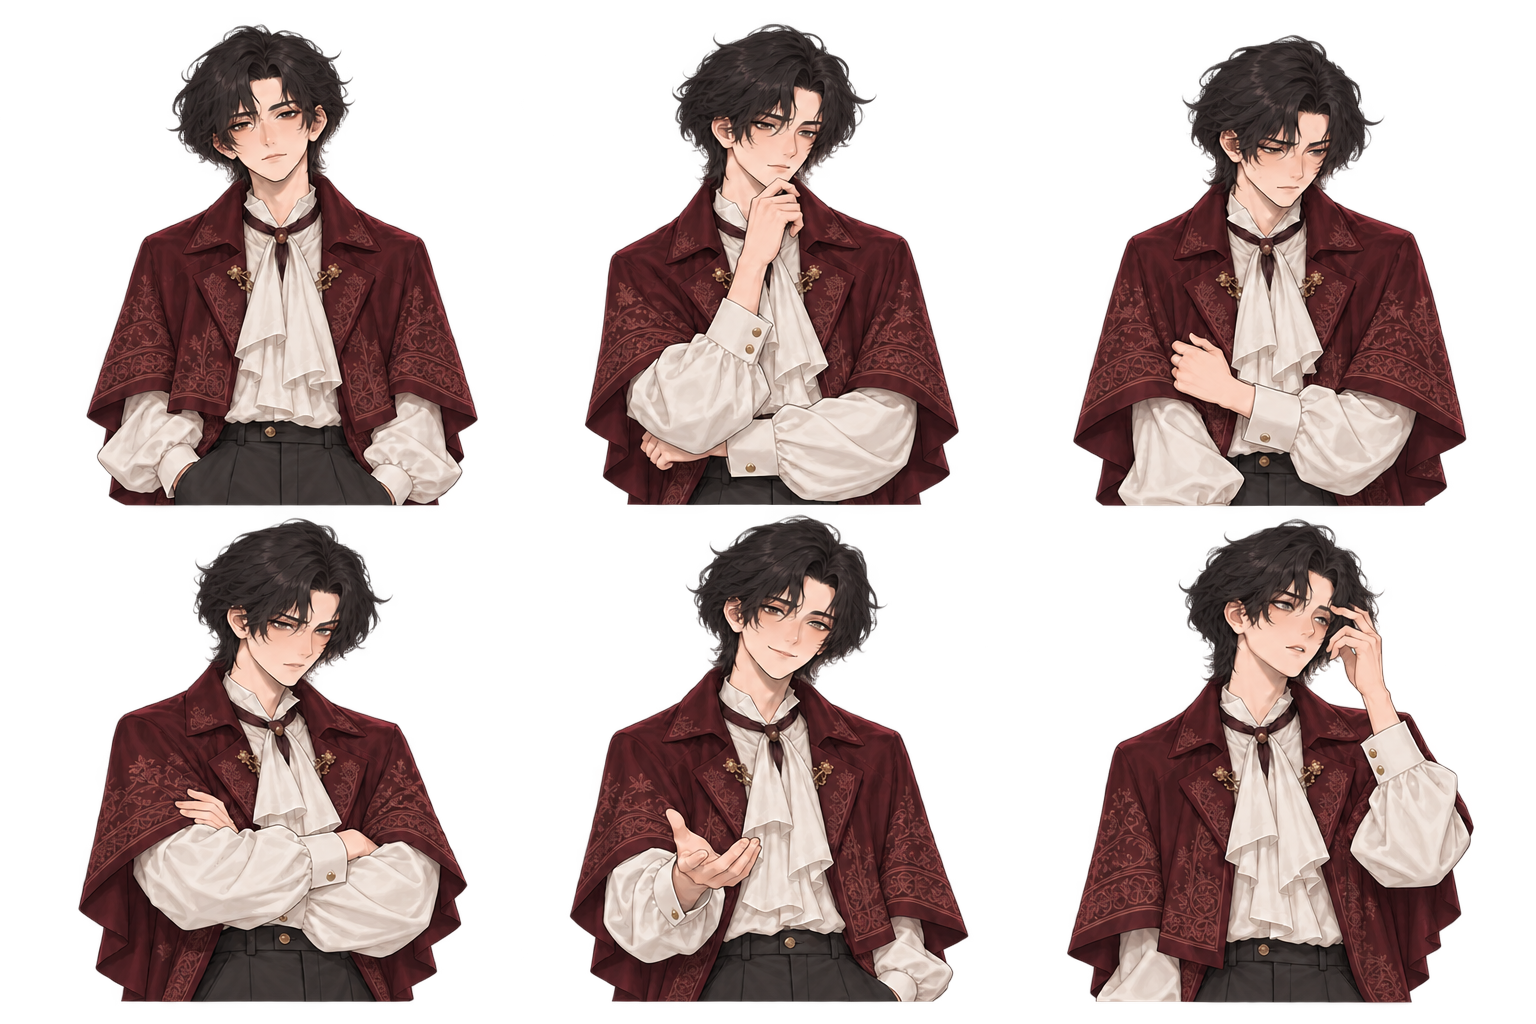
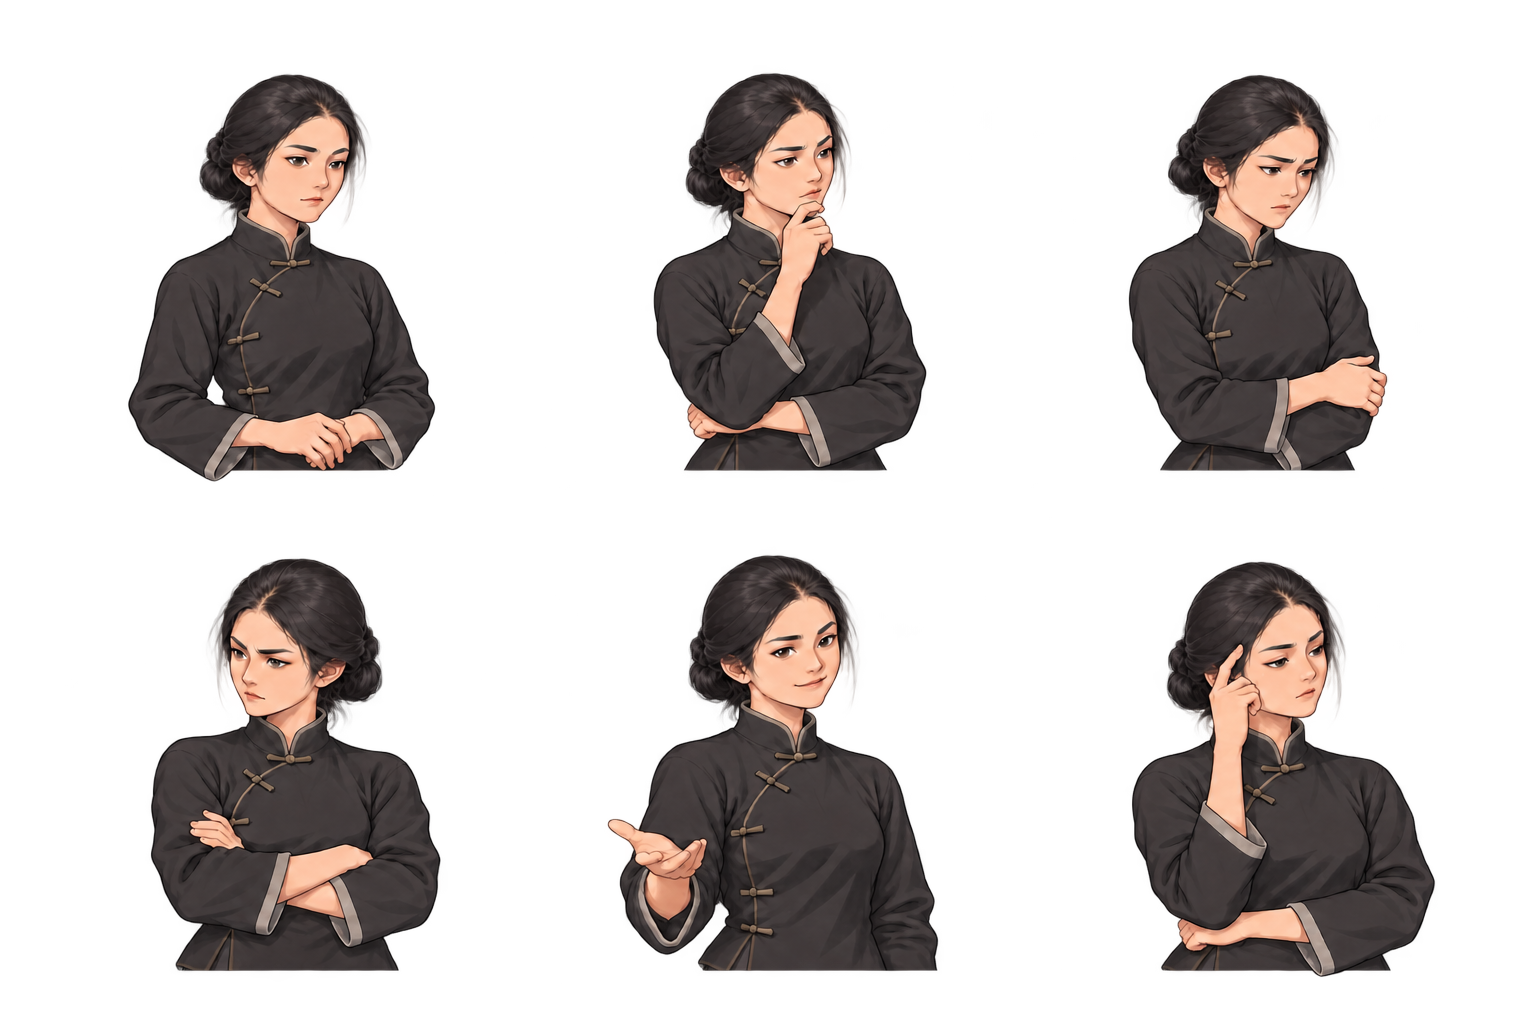
fix(art): 苏泠对白立绘按人设重生成（原图误为穿诗人服装的男性），更正提示词与六格裁切

diff --git a/artifacts/ch1-portrait/verification-report.md b/artifacts/ch1-portrait/verification-report.md
@@ -1,0 +1,30 @@
+# 苏泠对白立绘独立资产检查
+
+结论：本轮定向资产 QA 通过。验收 Agent 使用全新上下文，读取三份 AGENTS.md，未读取设计规范；人物外观依据本轮明确提供的用户要求判断。未执行完整二级 UI 专项、一级全程记录或三级盲玩，不据此评价机制、人物行为合理性或游玩体验。
+
+交付改动：`godot_csharp/AssetsSource/Internal/Characters/DialogueCast/musician-sheet.prompt.txt:1` 与 `musician-sheet-layout.prompt.txt:1` 修正身份和生成要求；同目录 `musician-sheet.png`、`musician-sheet-layout-source.png` 替换为新女性图；`godot_csharp/ShareAsset/Internal/Characters/DialogueCast/musician-sheet.png` 同步运行纹理；同目录 `musician_{calm,thoughtful,worried,angry,warm,hooked}.tres:7` 的 region 与第 8 行 margin 按新图重新生成。原有 `.import` 配置保持一致，未手工修改。
+
+已实际查看新源图、女性布局中间图、厨师/工程师参考图，以及以下两张 Godot 实渲染 PNG：
+
+- [六表情运行时纹理](verification/musician-runtime-contact.png)：正式六个 AtlasTexture 以 332×417 画布显示。
+- [正式对白头像控件](verification/musician-dialogue-widget-contact.png)：复制 ChapterDialogue.tscn 的 PortraitFrame/CharacterPortrait，沿用正式主题、210×280 框、204×274 最小纹理区域与 stretch_mode=5。
+
+六格为同一位年轻成年女性，低位黑发髻、炭黑立领盘扣上衣、纤瘦体态与空手保持一致；没有蓝/海军蓝服装、披风或领巾。表情顺序与动作分别为平静松弛、指抵下巴思考、紧张手横胸前、克制怒意抱臂、柔和微笑摊手、失神侧看并停手于太阳穴。成人动漫画风与两份参考兼容。截图中发髻、肘部与手部完整，透明背景正确，无矩形底色和相邻格内容混入。
+
[1 lines of base64/hex data omitted]
+
+按生产管线 `ALPHA_BOUND_THRESHOLD=16` 测量，六个 region 完整包住有效轮廓，每格四边有效 alpha 像素数均为零。有效轮廓距格边最小为 calm 下侧 30px，其余格的最小留白均至少 41px。calm 下侧未达到提示词写明的 35px 留白，属于小幅规格差异；实际查看未发现头发、肘部或手部裁切、触边。37,845 个 alpha 介于 1–15 的微弱像素不作为有效轮廓；透明像素内残留 RGB 不作为不透明背景判据。完整测量见 [portrait-metrics.json](verification/portrait-metrics.json)。
+
+| 检查 | 本轮结果 |
+| --- | --- |
+| `python godot_csharp/tools/compile_story.py --check` | 通过，7 个生成物与源一致。 |
+| `dotnet build godot_csharp/DualOntologyWorldEngine.sln` | 初次及诊断重跑均 exit 1，普通输出 0 警告/0 错误；原始失败日志保留。 |
+| 同一构建加 `-m:1 -nodeReuse:false` | exit 0，3 警告/0 错误：两条 NU1900 网络审计警告，一条既有 CS0414 未使用字段警告。 |
+| Godot 4.6.1 .NET 重新导入 | 两次均 exit 0，首次导入 musician-sheet.png；首次 Main.gd:24 的 C# Node 类型解析错误在成功构建后重导入消失。 |
+| Godot 正式 AtlasTexture/头像控件渲染 | exit 0，两张 PNG 保存成功并实际查看。 |
+
+重新导入仍输出根证书存储读取错误，以及写入工作区外 `AppData/Roaming/Godot/editor_settings-4.6.tres` 的权限错误；未阻断本轮纹理导入与截图。实际渲染使用 ANGLE Compatibility，音频设备不可用而回退 Dummy，未验证声音。各次命令原始字节日志及退出码保留在 [verification/](verification/)；日志以局部 `.gitattributes` 的 `-text -diff` 保存。
+
+ImageGen 生成来源已独立核对哈希：最终图来自 `C:/Users/Administrator/.codex/generated_images/01a11e0d-6c40-7653-b54b-ce7af55230ed/exec-a68ea091-6392-4213-b594-22d4de1dc31d.png`，女性布局中间图来自同目录 `exec-16728ccc-434d-428e-a6ee-fce97c553bf6.png`，分别与两份保存源图完全一致。两份生产提示词已重写；主代理记录由 `build_dialogue_cast.py --only musician` 发布纹理并再生成六个资源、将生成的 CRLF 恢复为既有 LF，未手改资源值或 import 哈希。
+
+临时测量/渲染脚本已移除。验收 Agent 没有修改生产源码、剧情、设计或管线，没有提交。导入产生的三份无关 translation 二进制由主代理恢复为 HEAD 原始字节，不属于本轮交付。
